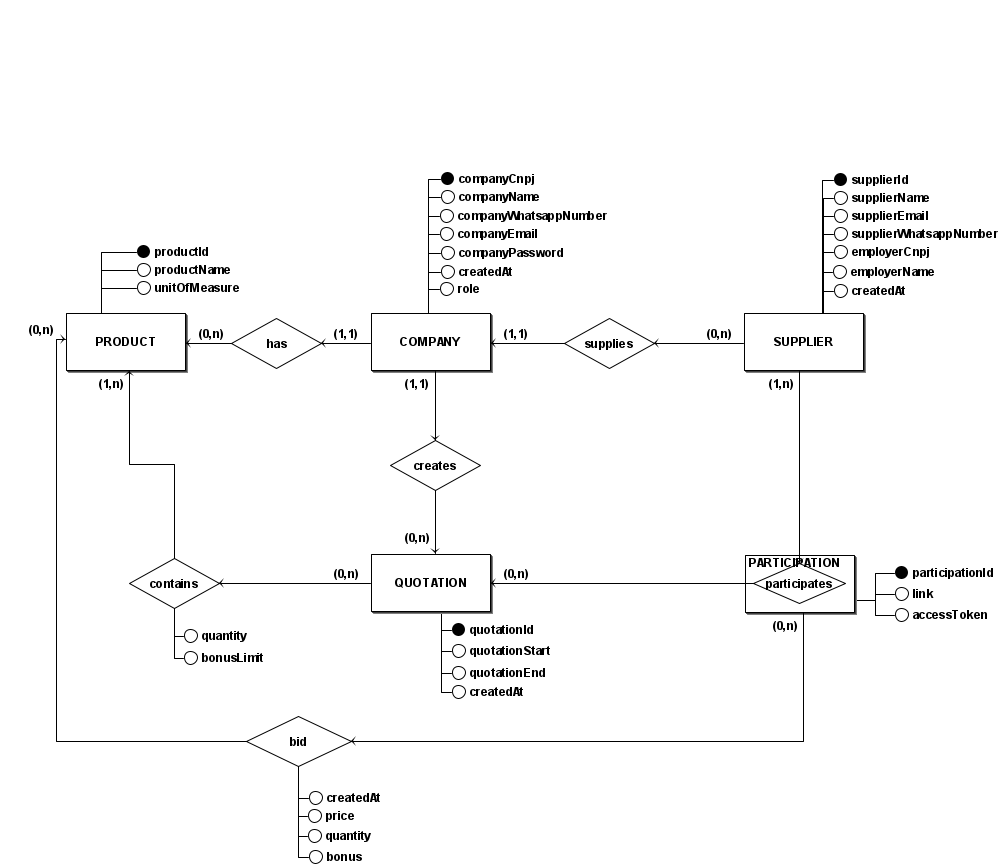
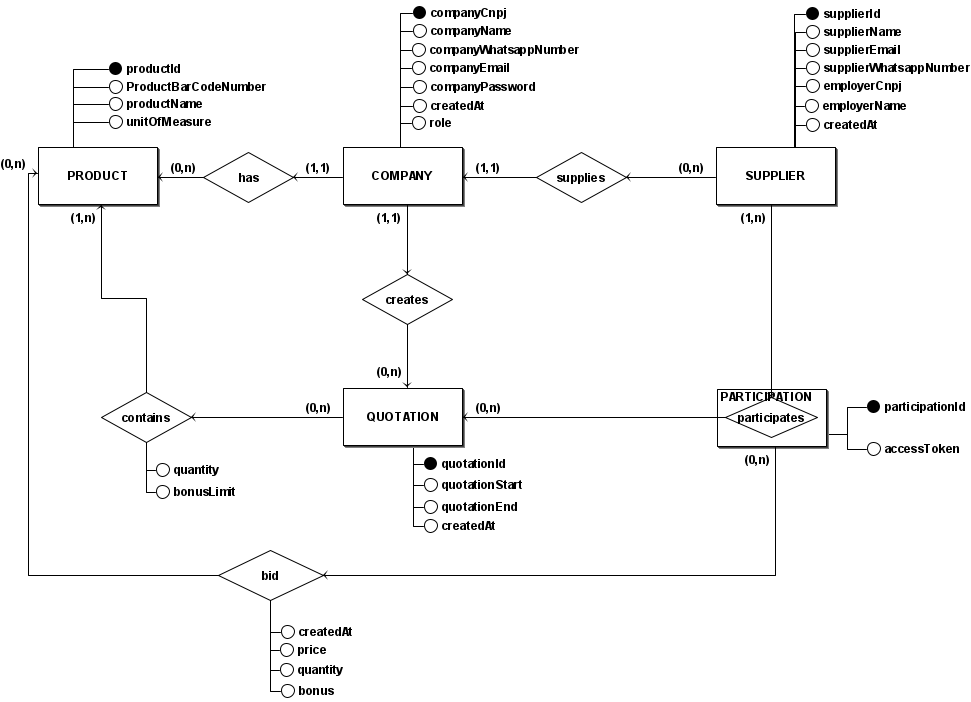
Add validations to edit a product

diff --git a/frontend/src/pages/Product/ProductEdit.jsx b/frontend/src/pages/Product/ProductEdit.jsx
@@ -3,38 +3,38 @@ import useFetch from '../../hooks/useFetch'
 import Input from '../../components/Input'
 import Button from '../../components/Button'
 import Alert from '../../components/Alert'
+import useCharLimit from '../../hooks/useCharLimit'
 
 const ProductEdit = ({product, onSave, onClose}) => {
 
-    const { request, loading } = useFetch("http://localhost:8080/api/v1")
+    const {value: productBarCodeNumber, setValue: setProductBarCodeNumber, onChange: handleBarCodeChange, onBlur: handleBarCodeBlur, warning: barCodeWarning, isInvalid: isBarCodeInvalid } = useCharLimit(13, "Product Barcode Number")
+    const {value: productName, setValue: setProductName, onChange: handleNameChange, onBlur: handleNameBlur, warning: nameWarning, isInvalid: isNameInvalid } = useCharLimit(30, "Product Name")
+
+    const { request } = useFetch("http://localhost:8080/api/v1")
     const [error, setError] = useState("")
     const [success, setSuccess] = useState("")
-
-    const [formData, setFormData] = useState({
-        productBarCodeNumber: '',
-        productName: '',
-        unitOfMeasure: ''
-    })
+    const [unitOfMeasure, setUnitOfMeasure] = useState("")
 
     useEffect(() => {
         if(product){
-            setFormData({
-                productBarCodeNumber: product.productBarCodeNumber,
-                productName: product.productName,
-                unitOfMeasure: product.unitOfMeasure
-            })
+            setProductBarCodeNumber(product.productBarCodeNumber || "")
+            setProductName(product.productName || "")
+            setUnitOfMeasure(product.unitOfMeasure || "")
         }
     }, [product])
 
-    const handleChange = (e) => {
-        setFormData(prev => ({...prev, [e.target.name]: e.target.value}))
-    }
+    const isDisabled = 
+        barCodeWarning ||
+        nameWarning ||
+        !productBarCodeNumber ||
+        !productName ||
+        !unitOfMeasure
 
     const handleSubmit = async (e) => {
         e.preventDefault()
         if(!product) return
 
-        if(!formData.productBarCodeNumber.trim() || !formData.productName.trim() || !formData.unitOfMeasure){
+        if(!productBarCodeNumber.trim() || !productName.trim() || !unitOfMeasure){
             setError("All fields are required.")
             setSuccess("")
             return;
@@ -43,9 +43,9 @@ const ProductEdit = ({product, onSave, onClose}) => {
         setError("")
 
         const body = {
-            productBarCodeNumber: formData.productBarCodeNumber.trim(),
-            productName: formData.productName.trim(),
-            unitOfMeasure: formData.unitOfMeasure,
+            productBarCodeNumber: productBarCodeNumber.trim(),
+            productName: productName.trim(),
+            unitOfMeasure,
             companyCnpj: product.companyCnpj
         }
 
@@ -64,28 +64,33 @@ const ProductEdit = ({product, onSave, onClose}) => {
 
     return (
         <form onSubmit={handleSubmit}>
-            <Input label="BarCodeNumber" type="text" name="productBarCodeNumber" value={formData.productBarCodeNumber} onChange={handleChange} placeholder="Enter Product Barcode Number" required/>
-            <Input label="Name" type="text" name="productName" value={formData.productName} onChange={handleChange} placeholder="Enter Product Name" required/>
-            <div className="input-group">
-                <label htmlFor="unitOfMeasure" className="input-label">
-                    Unit of Measure
+            <Input label="Barcode Number" type="text" name="productBarCodeNumber" value={productBarCodeNumber} onChange={handleBarCodeChange} onBlur={handleBarCodeBlur} placeholder="Enter Product Barcode Number" isInvalid={isBarCodeInvalid} required />
+            {barCodeWarning && <div className="warning">{barCodeWarning}</div>}
+            
+            <Input label="Name" type="text" name="productName" value={productName} onChange={handleNameChange} onBlur={handleNameBlur} placeholder="Enter Product Name" isInvalid={isNameInvalid} required />
+            {nameWarning && <div className="warning">{nameWarning}</div>}
+
+            <div className="input-container">
+                <label htmlFor="unitOfMeasure">
+                    Unit of Measure<span className={`required-asterisk ${!unitOfMeasure ? "empty" : "filled"}`}>*</span>
                 </label>
-                <select id="unitOfMeasure" name="unitOfMeasure" value={formData.unitOfMeasure} onChange={handleChange} className="custom-select">
-                    <option value="" disabled>Select a unit</option>
-                    <option value="mg">mg</option> 
-                    <option value="g">g</option> 
-                    <option value="kg">kg</option> 
-                    <option value="ml">ml</option> 
-                    <option value="l">l</option> 
-                    <option value="und">und</option> 
-                </select>
+                <div className="select-wrapper">
+                    <select id="unitOfMeasure" name="unitOfMeasure" value={unitOfMeasure} onChange={(e) => setUnitOfMeasure(e.target.value)} className="custom-select" required >
+                        <option value="" disabled>Select a unit</option>
+                        <option value="mg">mg</option> 
+                        <option value="g">g</option> 
+                        <option value="kg">kg</option> 
+                        <option value="ml">ml</option> 
+                        <option value="l">l</option> 
+                        <option value="und">und</option> 
+                    </select>
+                    <span className="select-arrow"></span>
+                </div>
             </div>
             <Alert message={error} />
             {success && <div className="success">{success}</div>}
 
-            <Button type="submit" disabled={loading}>
-                {loading ? "Saving..." : "Save"}
-            </Button>
+            <Button type="submit" disabled={isDisabled}>Save</Button>
         </form>
     )
 }
